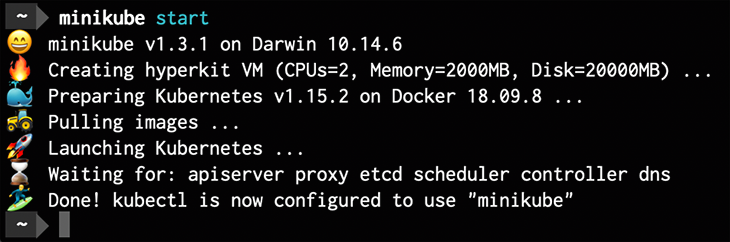
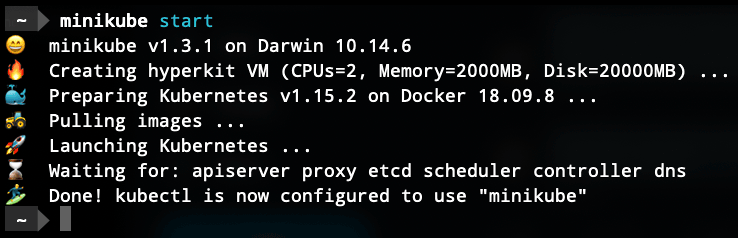
Update screenshot to use Droid Sans Mono 18pt

Changed region(s): [[0.0, 0.0, 0.9945, 1.0]]

diff --git a/README.md b/README.md
@@ -13,7 +13,7 @@
 
 minikube implements a local Kubernetes cluster on macOS, Linux, and Windows. minikube's [primary goals](https://minikube.sigs.k8s.io/docs/concepts/principles/) are to be the best tool for local Kubernetes application development and to support all Kubernetes features that fit. 
 
-<img src="https://github.com/kubernetes/minikube/raw/master/site/content/en/start.png" width="730" alt="screenshot">
+<img src="https://github.com/kubernetes/minikube/raw/master/site/content/en/start.png" width="738" alt="screenshot">
 
 ## Features
 
